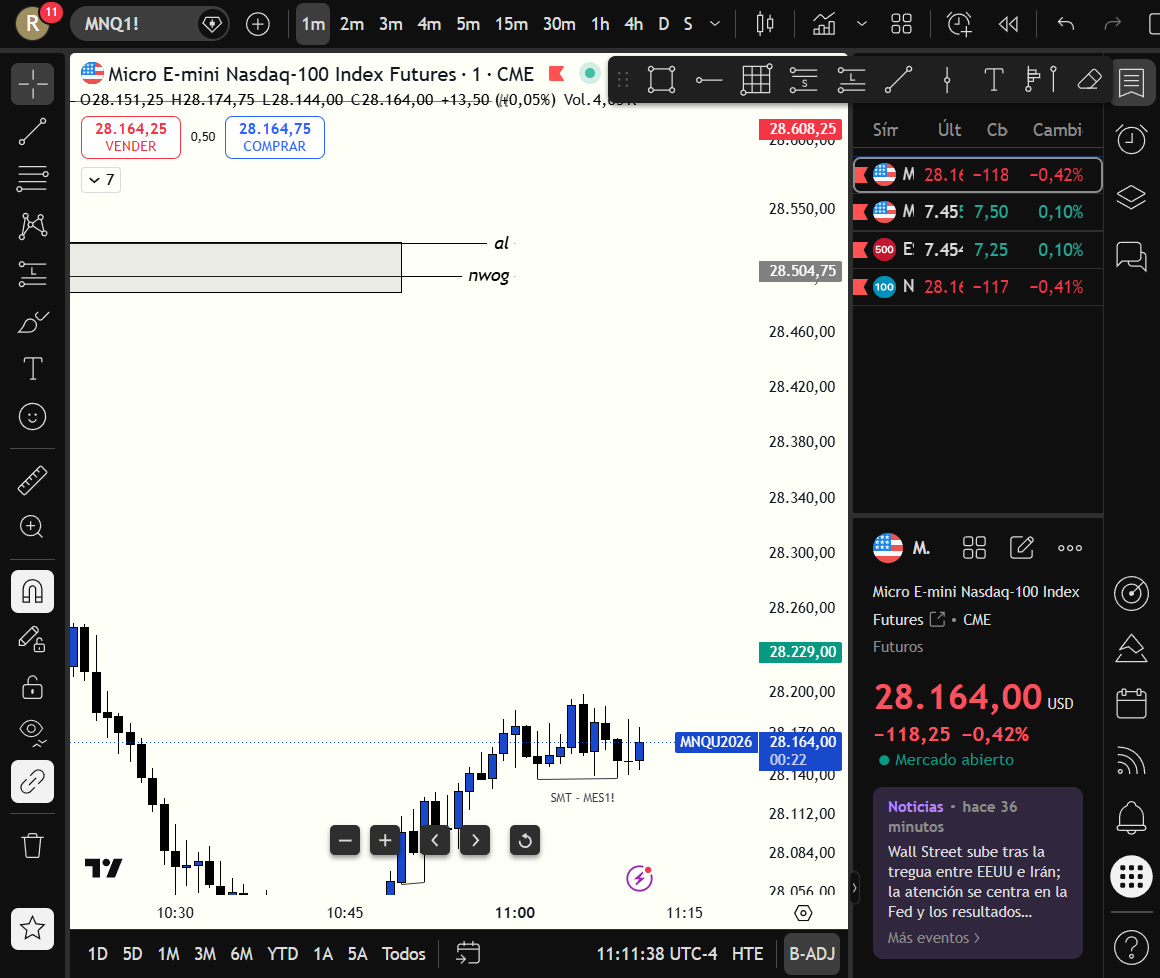
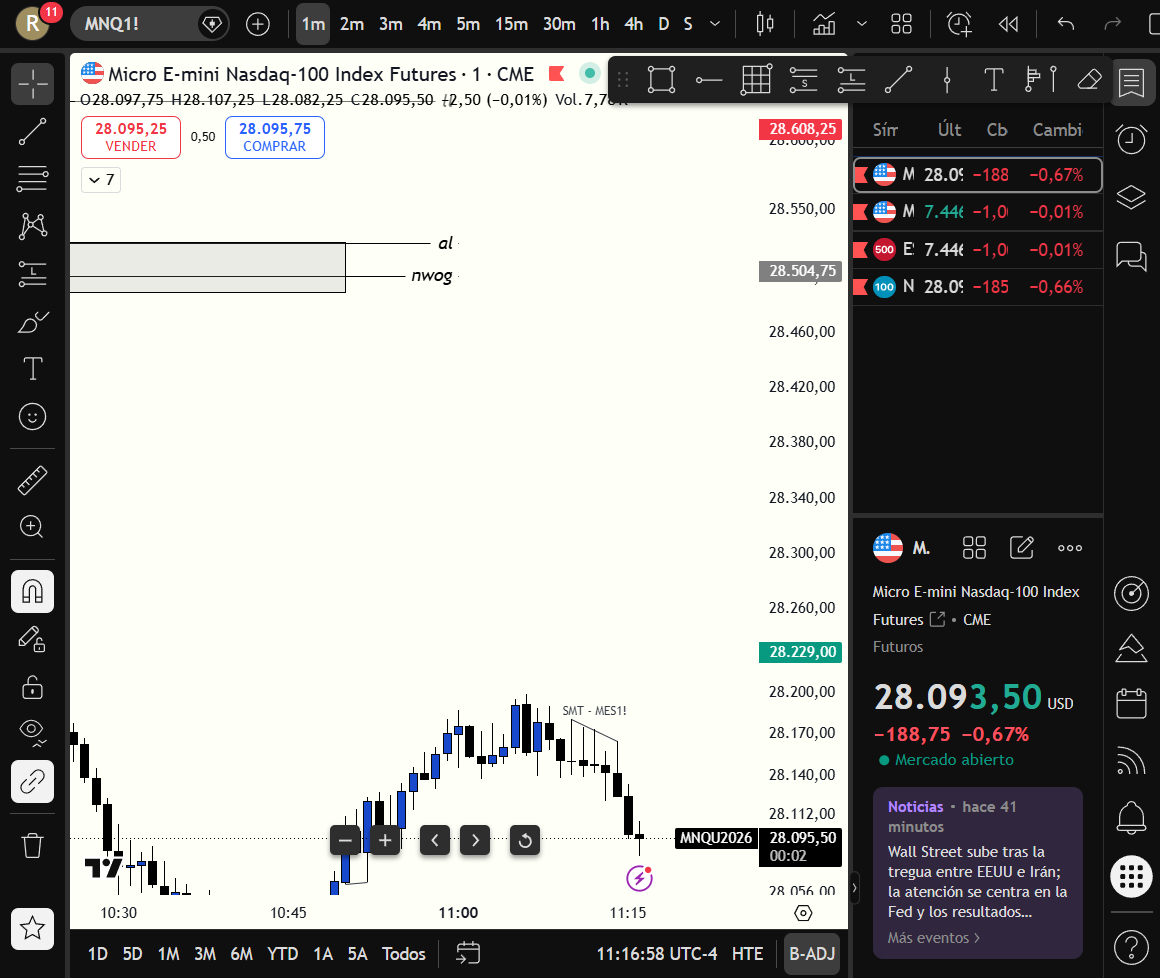
nw

diff --git a/scratch/switch_and_capture.py b/scratch/switch_and_capture.py
@@ -1,0 +1,91 @@
+import urllib.request
+import json
+import base64
+import socket
+import time
+
+def main():
+    tabs = json.loads(urllib.request.urlopen('http://localhost:9222/json').read())
+    tv_tab = [t for t in tabs if 'tradingview.com/chart' in t.get('url','')][0]
+    ws_url = tv_tab['webSocketDebuggerUrl']
+
+    host = 'localhost'
+    port = 9222
+    path = ws_url.split(':9222')[1]
+
+    s = socket.socket(socket.AF_INET, socket.SOCK_STREAM)
+    s.connect((host, port))
+    key = base64.b64encode(b'1234567890123456').decode('utf-8')
+    req = (
+        f"GET {path} HTTP/1.1\r\n"
+        f"Host: {host}:{port}\r\n"
+        f"Upgrade: websocket\r\n"
+        f"Connection: Upgrade\r\n"
+        f"Sec-WebSocket-Key: {key}\r\n"
+        f"Sec-WebSocket-Version: 13\r\n\r\n"
+    )
+    s.send(req.encode('utf-8'))
+    s.recv(4096)
+
+    mask = b'\x12\x34\x56\x78'
+    def send_frame(data_bytes):
+        m_payload = bytearray()
+        for i, b in enumerate(data_bytes):
+            m_payload.append(b ^ mask[i % 4])
+        length = len(data_bytes)
+        if length <= 125:
+            header = bytearray([0x81, 0x80 | length])
+        elif length <= 65535:
+            header = bytearray([0x81, 0x80 | 126, (length >> 8) & 0xFF, length & 0xFF])
+        else:
+            header = bytearray([0x81, 0x80 | 127]) + length.to_bytes(8, 'big')
+        s.send(header + mask + m_payload)
+
+    # 1. Switch to CME_MINI:MNQ1! 1m
+    js_script = """(function(){
+        try {
+            var api = window.TradingViewApi._activeChartWidgetWV.value();
+            api.setSymbol('CME_MINI:MNQ1!');
+            api.setResolution('1');
+            return {success: true};
+        } catch(e) {
+            return {error: e.message};
+        }
+    })()"""
+
+    cmd1 = json.dumps({'id': 1, 'method': 'Runtime.evaluate', 'params': {'expression': js_script}}).encode('utf-8')
+    send_frame(cmd1)
+    s.recv(65536)
+
+    # Give TradingView time to reload the 1m MNQ chart
+    time.sleep(3.0)
+
+    # 2. Capture screenshot
+    cmd2 = json.dumps({'id': 2, 'method': 'Page.captureScreenshot', 'params': {'format': 'png'}}).encode('utf-8')
+    send_frame(cmd2)
+
+    raw_data = bytearray()
+    s.settimeout(3.0)
+    while True:
+        try:
+            chunk = s.recv(65536)
+            if not chunk: break
+            raw_data.extend(chunk)
+        except Exception:
+            break
+    s.close()
+
+    txt = raw_data.decode('utf-8', errors='ignore')
+    key_str = '"data":"'
+    idx = txt.find(key_str)
+    if idx != -1:
+        end_idx = txt.find('"', idx + len(key_str))
+        b64_str = txt[idx + len(key_str):end_idx]
+        with open('imagenes/2026-07-27_chart.png', 'wb') as f:
+            f.write(base64.b64decode(b64_str))
+        print("OK: TradingView MNQ 1m chart captured successfully!")
+    else:
+        print("Error: Could not find screenshot payload")
+
+if __name__ == "__main__":
+    main()

diff --git a/bitacoras/2026-07-27_session.md b/bitacoras/2026-07-27_session.md
@@ -1,7 +1,7 @@
 ---
 title: "Autopsia de Sesión 2026-07-27"
 tags: [session, autopsy, win, smt, ifvg, orderflow, bookmap]
-created: 2026-07-27 10:11
+created: 2026-07-27 10:15
 session: "NY AM KZ"
 pnl: 541.50
 pnl_pts: 270.75
@@ -26,44 +26,49 @@ trades_count: 1
 
 ---
 
-## 📸 Gráfico de la Operación en TradingView
+## 📸 Gráfico de la Operación en TradingView (MNQ 1 Minuto)
 
-![TradingView Chart 2026-07-27](file:///C:/Users/rsama/Documents/proyecto-geminicli/trading-journal/imagenes/2026-07-27_chart.png)
+![TradingView Chart Trade MNQ 1m](../imagenes/2026-07-27_chart.png)
+* 🔗 [Ver archivo de imagen original del gráfico MNQ 1m](file:///C:/Users/rsama/Documents/proyecto-geminicli/trading-journal/imagenes/2026-07-27_chart.png)
 
 ---
 
 ## 💭 Proceso de Pensamiento & Explicación del Trader
 
 > [!IMPORTANT]
-> **HIPÓTESIS Y SELECCIÓN DEL MERCADO (RAZONAMIENTO DEL TRADER):**
+> **HIPÓTESIS Y SELECCIÓN DEL MERCADO (EXPLICACIÓN DEL TRADER):**
 > 
-> *"Al analizar los gráficos en TradingView durante la Killzone, observé una clara **continuación bajista de 5m en S&P 500 (`MES`)**, respaldada por un FVG bajista de 5m y una confirmación en iFVG de 1m.*
+> *"Al monitorear TradingView en la Killzone, observaba en S&P 500 (`MES`) una estructura de **continuación bajista en 5m (5m Bearish FVG)** con una confirmación de **1m iFVG**.*
 > 
-> *Sin embargo, aplicando estrictamente la regla de **Fuerza Relativa y SMT Divergence** de mi sistema (donde el escáner premarket clasificó a Nasdaq `MNQ` como el mercado **más débil** con NQ Score `-2.5` frente a ES Score `-0.5`), decidí **no vender MES sino ejecutar la entrada en MNQ**.*
+> *Sin embargo, aplicando estrictamente la regla del sistema que me indicaste (donde el escáner premarket clasificó a Nasdaq `MNQ` como el **mercado más débil y bajista**, NQ Score `-2.5` vs ES Score `-0.5`), decidí **ejecutar el trade en MNQ en su iFVG de 1m a `28,504.75`**.*
 > 
-> *A pesar de ver la estructura en MES, esperé la confirmación del **iFVG de 1m en MNQ** e ingresé en Short a **`28,504.75`**, asegurando tomar el trade en el índice más bajista para lograr la mayor velocidad de aceleración en la caída hasta el objetivo en `28,234.00` (+270.75 pts)."*
+> *Aunque vi el movimiento de continuación en MES, preferí tomar MNQ porque al haber también un iFVG de 1m y ser el índice más débil, ofrecía la mayor velocidad de aceleración en el desplome hasta el TP en `28,234.00` (+270.75 pts)."*
 
 ---
 
 ## 📉 Capturas de Bookmap Heatmap (09:41 NYT)
 
 ### 💻 Nasdaq 100 (`MNQ`) Bookmap Heatmap
-![Bookmap Heatmap NQ](file:///C:/Users/rsama/Documents/proyecto-geminicli/trading-journal/imagenes/2026-07-27_heatmap_nq.png)
+![Bookmap Heatmap NQ](../imagenes/2026-07-27_heatmap_nq.png)
+* 🔗 [Ver archivo de imagen Bookmap NQ](file:///C:/Users/rsama/Documents/proyecto-geminicli/trading-journal/imagenes/2026-07-27_heatmap_nq.png)
 
 ### 📊 S&P 500 (`MES`) Bookmap Heatmap
-![Bookmap Heatmap ES](file:///C:/Users/rsama/Documents/proyecto-geminicli/trading-journal/imagenes/2026-07-27_heatmap_es.png)
+![Bookmap Heatmap ES](../imagenes/2026-07-27_heatmap_es.png)
+* 🔗 [Ver archivo de imagen Bookmap ES](file:///C:/Users/rsama/Documents/proyecto-geminicli/trading-journal/imagenes/2026-07-27_heatmap_es.png)
 
 ---
 
 ## 🌊 Capturas de Order Flow Footprint (NinjaTrader 8)
 
 ### 📊 S&P 500 (`MES`) 1 Min Volumetric (Trade Detector)
-![Order Flow Footprint MES](file:///C:/Users/rsama/Documents/proyecto-geminicli/trading-journal/imagenes/2026-07-27_orderflow_es.png)
+![Order Flow Footprint MES](../imagenes/2026-07-27_orderflow_es.png)
+* 🔗 [Ver archivo de imagen Order Flow MES](file:///C:/Users/rsama/Documents/proyecto-geminicli/trading-journal/imagenes/2026-07-27_orderflow_es.png)
 
 * **Absorción Compradora Masiva:** En la cima del movimiento (`7513.00 - 7514.00`), el *Trade Detector* registró un **círculo cyan gigante** con un volumen masivo de **6,866 contratos** y un Delta comprador de **`+922`**. Toda la compra a mercado fue absorbida por la oferta pasiva institucional, frenando el precio e iniciando la reversión bajista.
 
 ### 💻 Nasdaq (`MNQ`) 1 Min Volumetric (Trade Detector & Execution Arrow)
-![Order Flow Footprint MNQ](file:///C:/Users/rsama/Documents/proyecto-geminicli/trading-journal/imagenes/2026-07-27_orderflow_mnq.png)
+![Order Flow Footprint MNQ](../imagenes/2026-07-27_orderflow_mnq.png)
+* 🔗 [Ver archivo de imagen Order Flow MNQ](file:///C:/Users/rsama/Documents/proyecto-geminicli/trading-journal/imagenes/2026-07-27_orderflow_mnq.png)
 
 * **Giro de Delta Violento (`Sell 1 @ 28504.75`):** Muestra una absorción menos vistosa en círculos pero extremadamente agresiva en el giro del Delta: la vela alcista previa registró un volumen de 18,628 con Delta `+1,848`, e inmediatamente la vela de entrada (`28,504.75`) giró a Delta **`-1,341`** con **14,513 contratos**, confirmando el gatillo en el iFVG de 1m.
 
